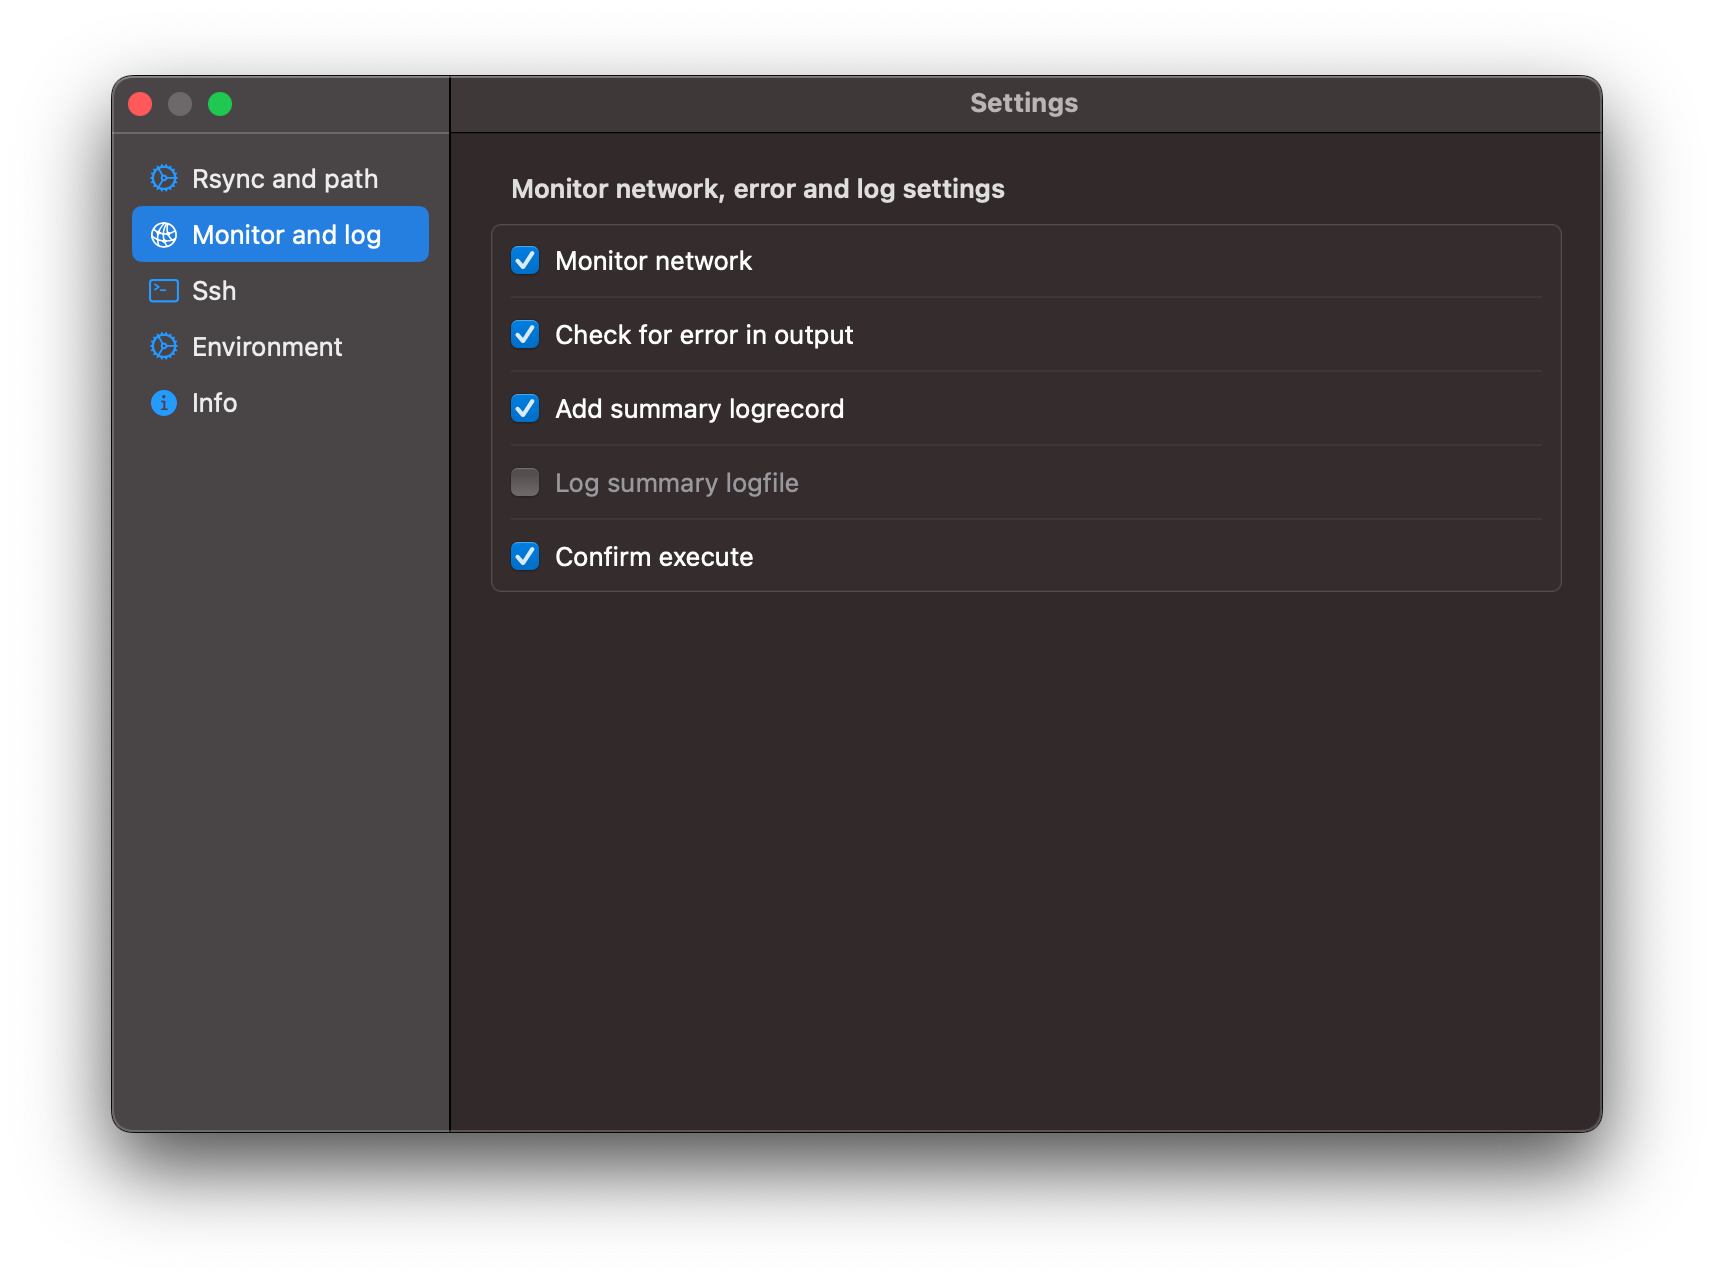
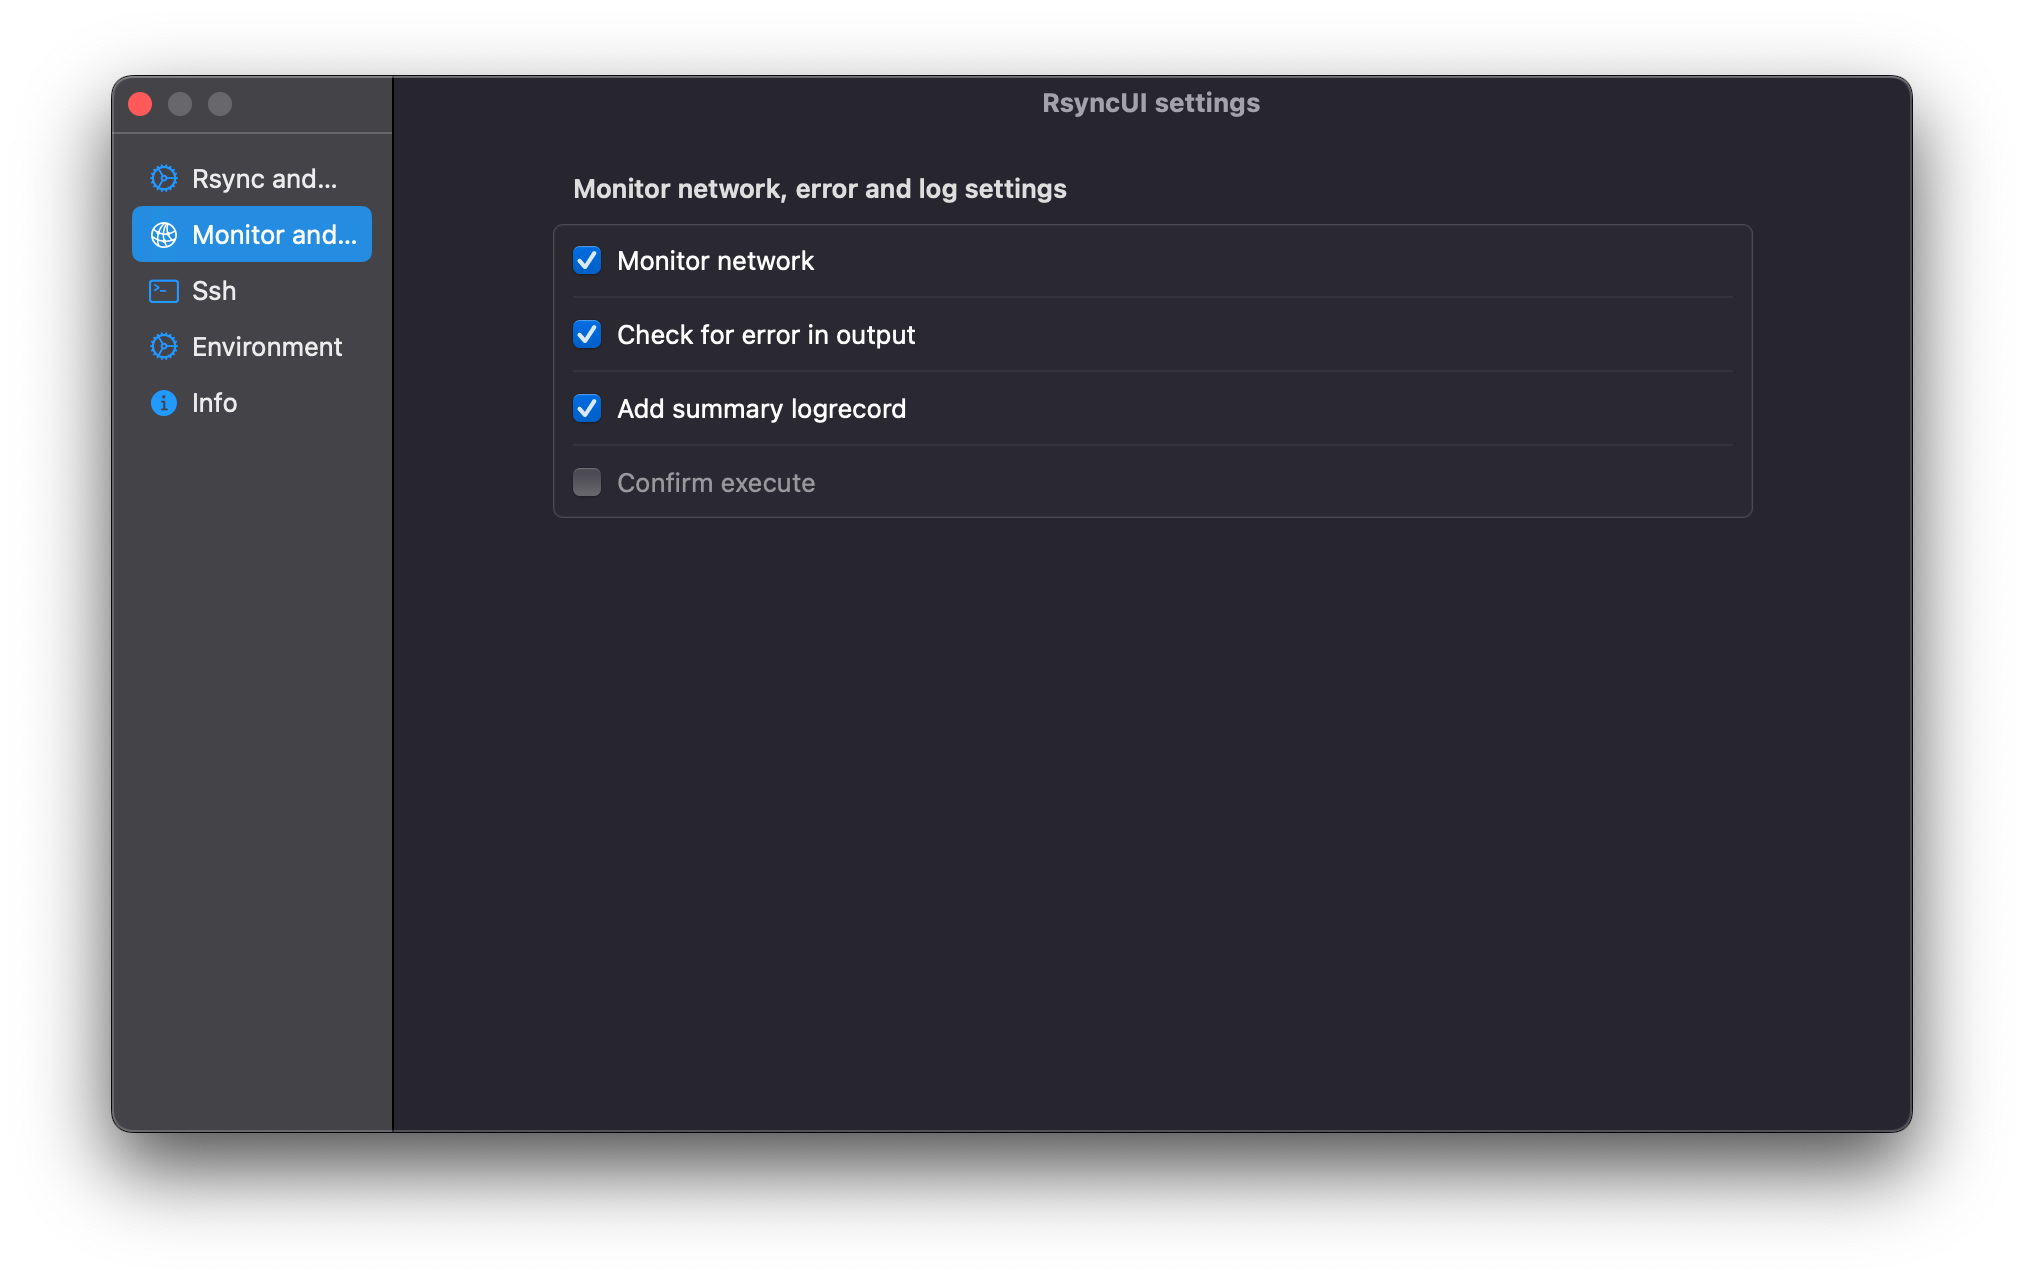
update

Changed region(s): [[0.0309, 0.0625, 0.5875, 0.9062], [0.9277, 0.0625, 0.9586, 0.9062], [0.4947, 0.0625, 0.6494, 0.0938]]

diff --git a/content/en/docs/settings/networksettings.md b/content/en/docs/settings/networksettings.md
@@ -20,16 +20,10 @@ Settings are automatically saved when changed.
     - if the word `error` is discovered in output from rsync it is notified
     - se below
 - Add summary logrecord
-    - by default `on`, a summary only of each synchronization is added to the logrecords, view `Log Listings` from Sidebar 
-- Log summary logfile
-    - by default `off`, there is also possible to add a short summary to the logfile
-        - timestamp
-        - last twenty lines of output from rsync which includes a summary of the task
-        
-
+    - by default `on`, a summary only of each synchronization is added to the logrecords, view `Log Listings` from Sidebar
 - Confirm execute
     - see below
-    
+
 The log file is stored at `$HOME/.rsyncosx/macserial/rsyncui.txt`. The logfile can be opened from the main view.
 
 ### Error output rsync
@@ -49,8 +43,7 @@ The confirm dialog if number of files to synchronize is like a new task. Sometim
 /dev/disk5s2 on /Volumes/Import bilder (apfs, local, nodev, nosuid, journaled, noowners)
 /dev/disk6s1 on /Volumes/Backups (apfs, local, nodev, nosuid, journaled, noowners)
 ```
-Below the local attached volume is not connected, the estimate may think there is a new synchronize task. If you just forgot to attach the disk you dont want RsyncUI to synchronize data to the `/Volume` catalog. 
+Below the local attached volume is not connected, the estimate may think there is a new synchronize task. If you just forgot to attach the disk you dont want RsyncUI to synchronize data to the `/Volume` catalog.
 {{< figure src="/images/usersettings/summarizedview.png" alt="" position="center" style="border-radius: 8px;" >}}
-When the switch is on RsyncUI ask to confirm synchronize. 
+When the switch is on RsyncUI ask to confirm synchronize.
 {{< figure src="/images/usersettings/confirmdialog.png" alt="" position="center" style="border-radius: 8px;" >}}
-
